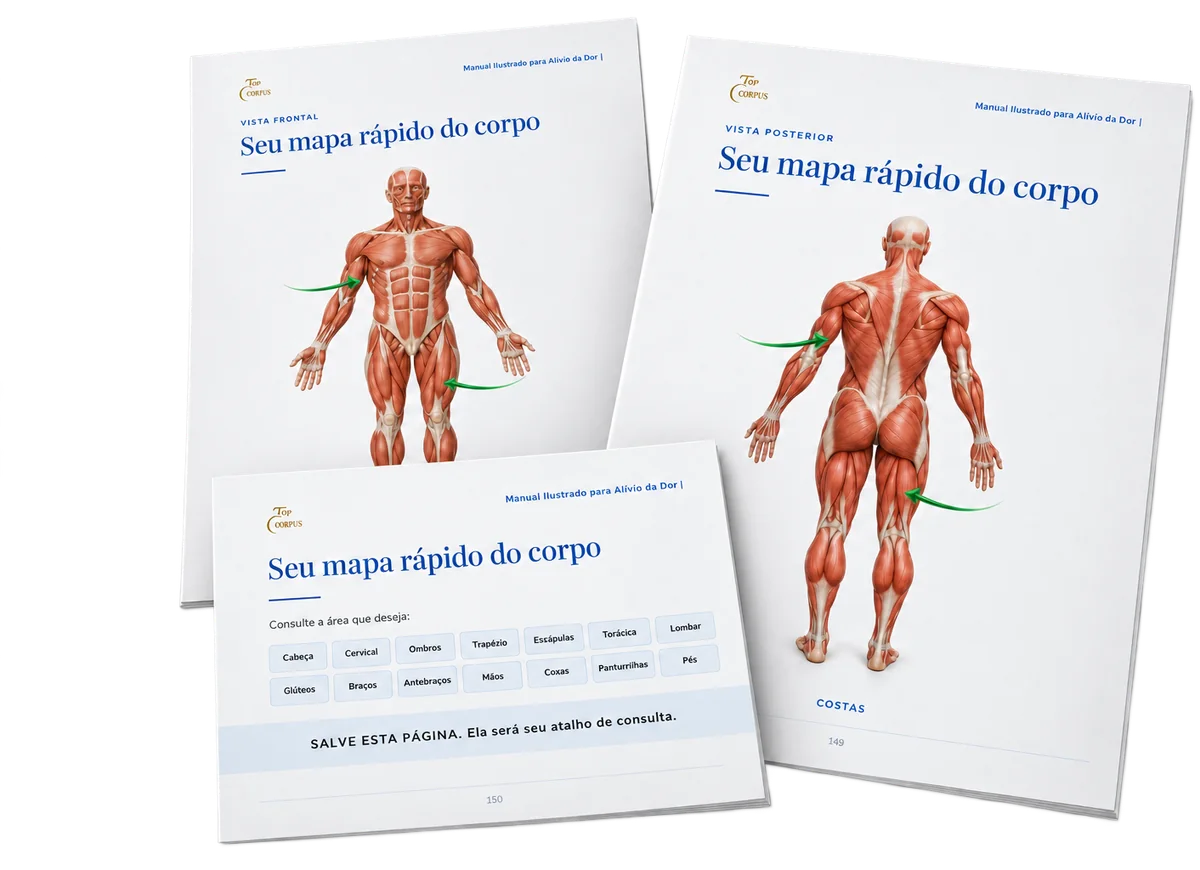
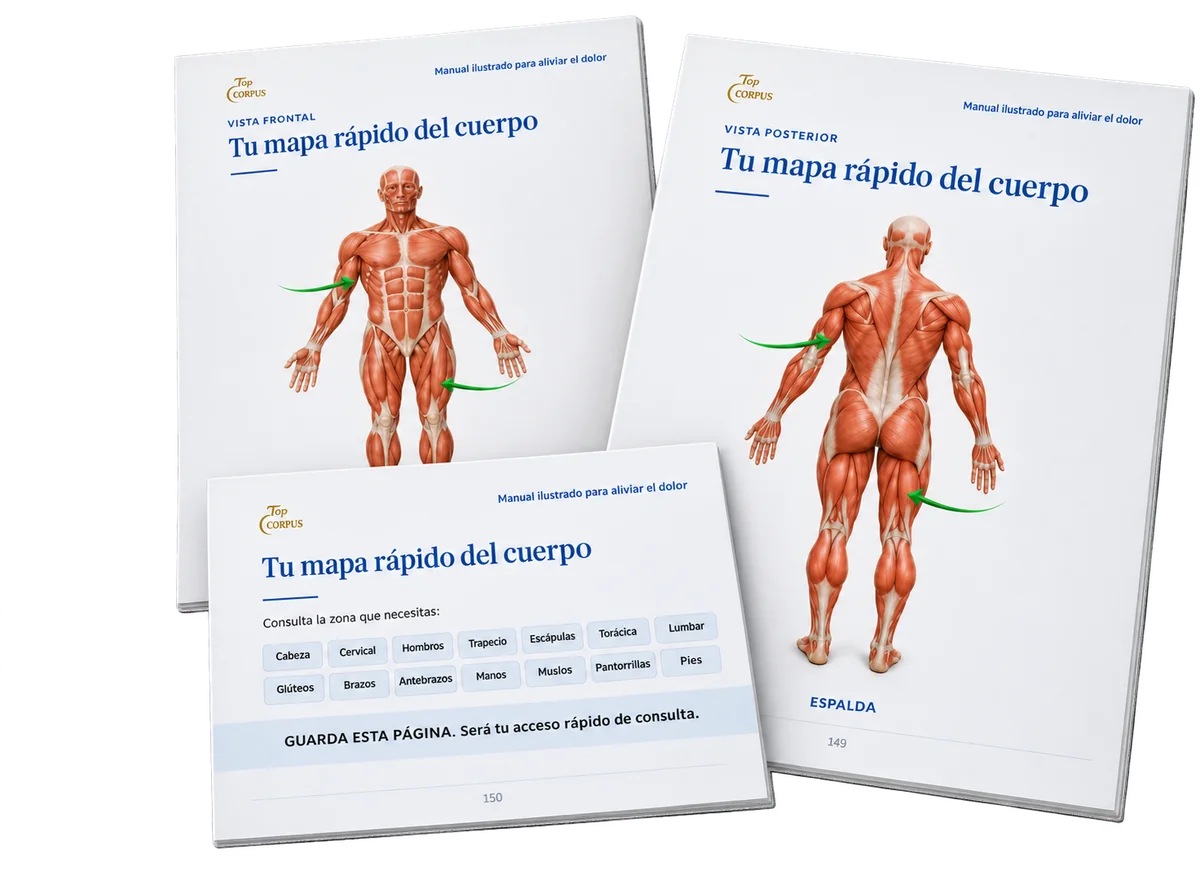
/esp/lt-v4-*: mockups do mapa do corpo e da lombar em espanhol
Os dois mockups do Manual chegaram traduzidos e entram nas seis páginas
da v4 em espanhol, no mesmo tamanho e com fundo transparente. Fica em
português só o mockup das páginas de segurança. No índice em espanhol,
a pendência passa a ser esse mockup, e sai a dos depoimentos em print,
que já são HTML em espanhol.

diff --git a/esp/indice/index.html b/esp/indice/index.html
@@ -456,7 +456,7 @@ body {
           <a class="bloco__url" href="https://exp-gg.topcorpus.com.br/esp/lt-v4-9/"><b>gg</b> exp-gg.topcorpus.com.br/esp/lt-v4-9/</a>
         </div>
         <div class="bloco__pe">
-          <div class="falta"><span>compra desactivada</span><span>3 mockups del Manual en portugués</span><span>testimonios en captura</span></div>
+          <div class="falta"><span>compra desactivada</span><span>1 mockup del Manual en portugués</span></div>
           <div class="copias">
             <button class="cp" type="button" data-copiar="https://exp-fb.topcorpus.com.br/esp/lt-v4-9/">Copiar fb</button>
             <button class="cp" type="button" data-copiar="https://exp-gg.topcorpus.com.br/esp/lt-v4-9/">Copiar gg</button>
@@ -477,7 +477,7 @@ body {
           <a class="bloco__url" href="https://exp-gg.topcorpus.com.br/esp/lt-v4-19/"><b>gg</b> exp-gg.topcorpus.com.br/esp/lt-v4-19/</a>
         </div>
         <div class="bloco__pe">
-          <div class="falta"><span>compra desactivada</span><span>3 mockups del Manual en portugués</span><span>testimonios en captura</span></div>
+          <div class="falta"><span>compra desactivada</span><span>1 mockup del Manual en portugués</span></div>
           <div class="copias">
             <button class="cp" type="button" data-copiar="https://exp-fb.topcorpus.com.br/esp/lt-v4-19/">Copiar fb</button>
             <button class="cp" type="button" data-copiar="https://exp-gg.topcorpus.com.br/esp/lt-v4-19/">Copiar gg</button>
@@ -498,7 +498,7 @@ body {
           <a class="bloco__url" href="https://exp-gg.topcorpus.com.br/esp/lt-v4-29/"><b>gg</b> exp-gg.topcorpus.com.br/esp/lt-v4-29/</a>
         </div>
         <div class="bloco__pe">
-          <div class="falta"><span>compra desactivada</span><span>3 mockups del Manual en portugués</span><span>testimonios en captura</span></div>
+          <div class="falta"><span>compra desactivada</span><span>1 mockup del Manual en portugués</span></div>
           <div class="copias">
             <button class="cp" type="button" data-copiar="https://exp-fb.topcorpus.com.br/esp/lt-v4-29/">Copiar fb</button>
             <button class="cp" type="button" data-copiar="https://exp-gg.topcorpus.com.br/esp/lt-v4-29/">Copiar gg</button>
@@ -531,7 +531,7 @@ body {
           <a class="bloco__url" href="https://exp-gg.topcorpus.com.br/esp/lt-v4-v2-9/"><b>gg</b> exp-gg.topcorpus.com.br/esp/lt-v4-v2-9/</a>
         </div>
         <div class="bloco__pe">
-          <div class="falta"><span>compra desactivada</span><span>3 mockups del Manual en portugués</span><span>testimonios en captura</span></div>
+          <div class="falta"><span>compra desactivada</span><span>1 mockup del Manual en portugués</span></div>
           <div class="copias">
             <button class="cp" type="button" data-copiar="https://exp-fb.topcorpus.com.br/esp/lt-v4-v2-9/">Copiar fb</button>
             <button class="cp" type="button" data-copiar="https://exp-gg.topcorpus.com.br/esp/lt-v4-v2-9/">Copiar gg</button>
@@ -552,7 +552,7 @@ body {
           <a class="bloco__url" href="https://exp-gg.topcorpus.com.br/esp/lt-v4-v2-19/"><b>gg</b> exp-gg.topcorpus.com.br/esp/lt-v4-v2-19/</a>
         </div>
         <div class="bloco__pe">
-          <div class="falta"><span>compra desactivada</span><span>3 mockups del Manual en portugués</span><span>testimonios en captura</span></div>
+          <div class="falta"><span>compra desactivada</span><span>1 mockup del Manual en portugués</span></div>
           <div class="copias">
             <button class="cp" type="button" data-copiar="https://exp-fb.topcorpus.com.br/esp/lt-v4-v2-19/">Copiar fb</button>
             <button class="cp" type="button" data-copiar="https://exp-gg.topcorpus.com.br/esp/lt-v4-v2-19/">Copiar gg</button>
@@ -573,7 +573,7 @@ body {
           <a class="bloco__url" href="https://exp-gg.topcorpus.com.br/esp/lt-v4-v2-29/"><b>gg</b> exp-gg.topcorpus.com.br/esp/lt-v4-v2-29/</a>
         </div>
         <div class="bloco__pe">
-          <div class="falta"><span>compra desactivada</span><span>3 mockups del Manual en portugués</span><span>testimonios en captura</span></div>
+          <div class="falta"><span>compra desactivada</span><span>1 mockup del Manual en portugués</span></div>
           <div class="copias">
             <button class="cp" type="button" data-copiar="https://exp-fb.topcorpus.com.br/esp/lt-v4-v2-29/">Copiar fb</button>
             <button class="cp" type="button" data-copiar="https://exp-gg.topcorpus.com.br/esp/lt-v4-v2-29/">Copiar gg</button>
